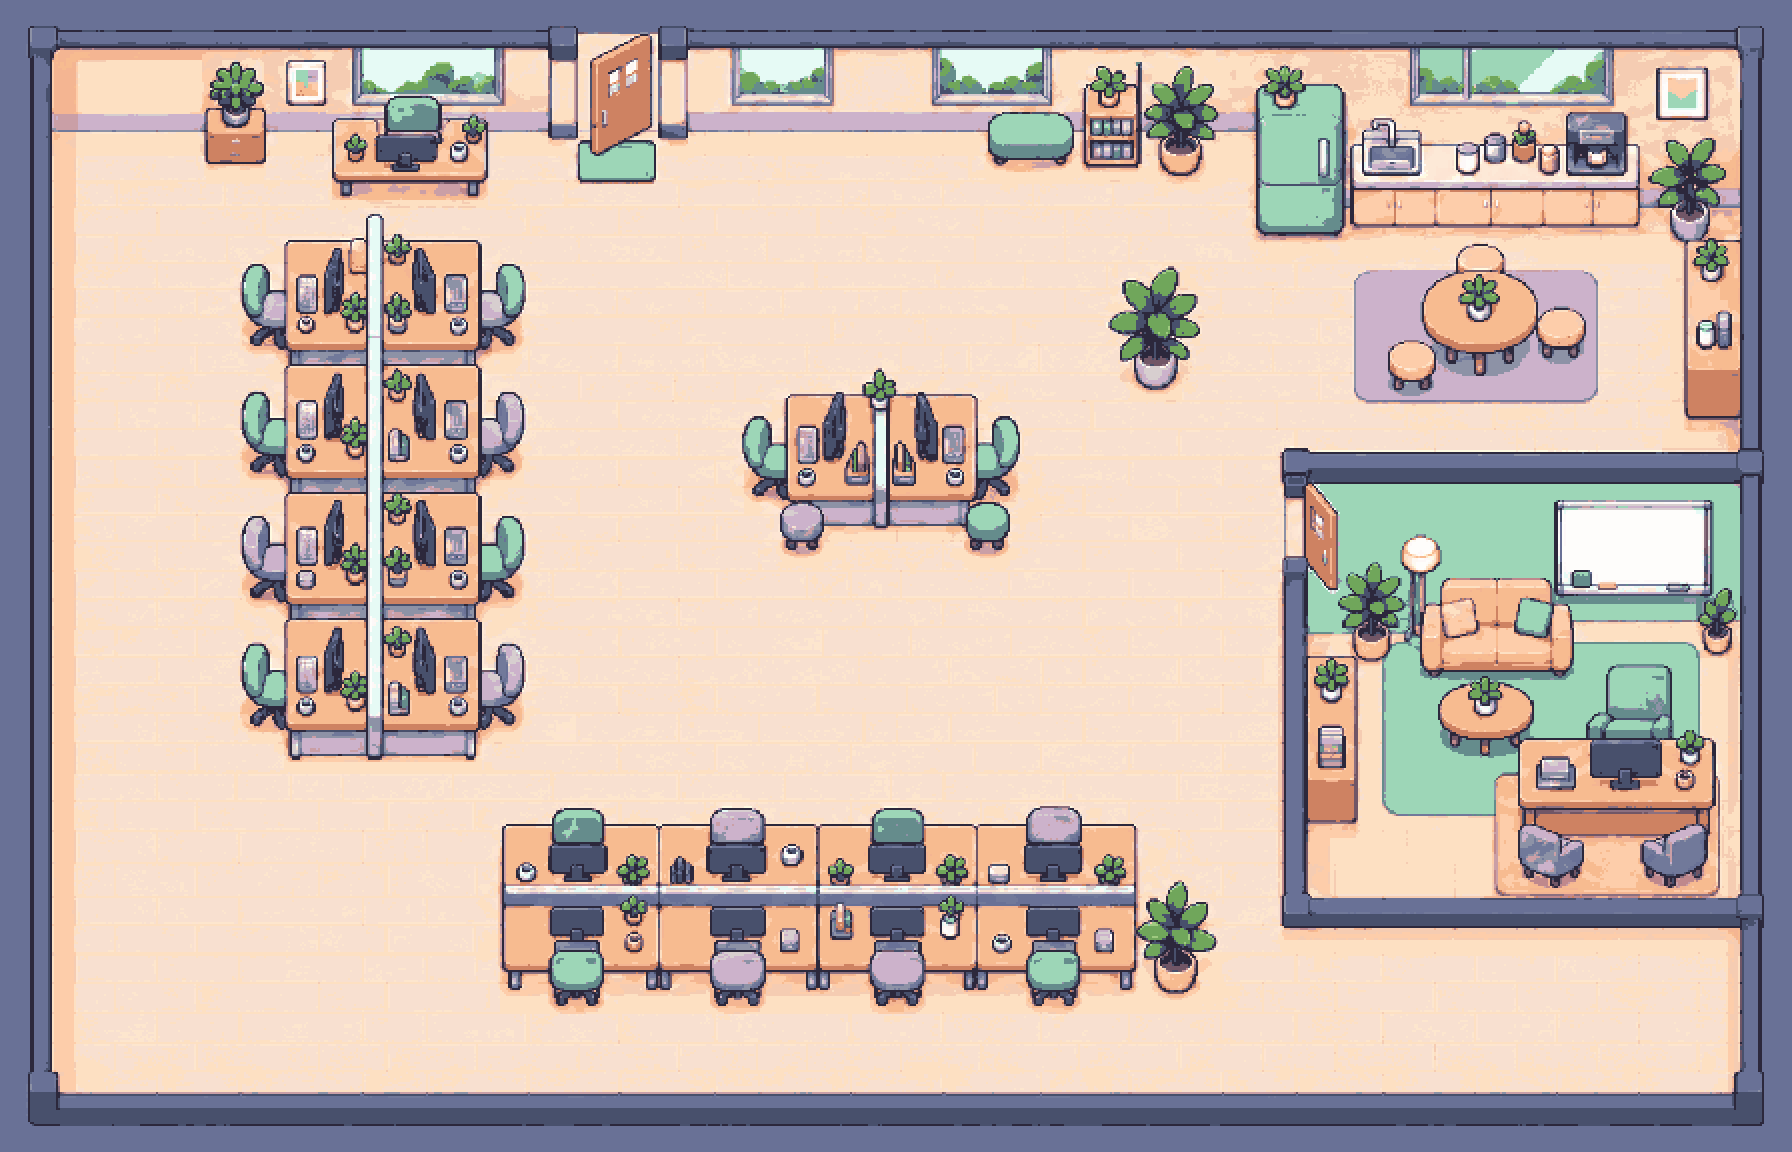
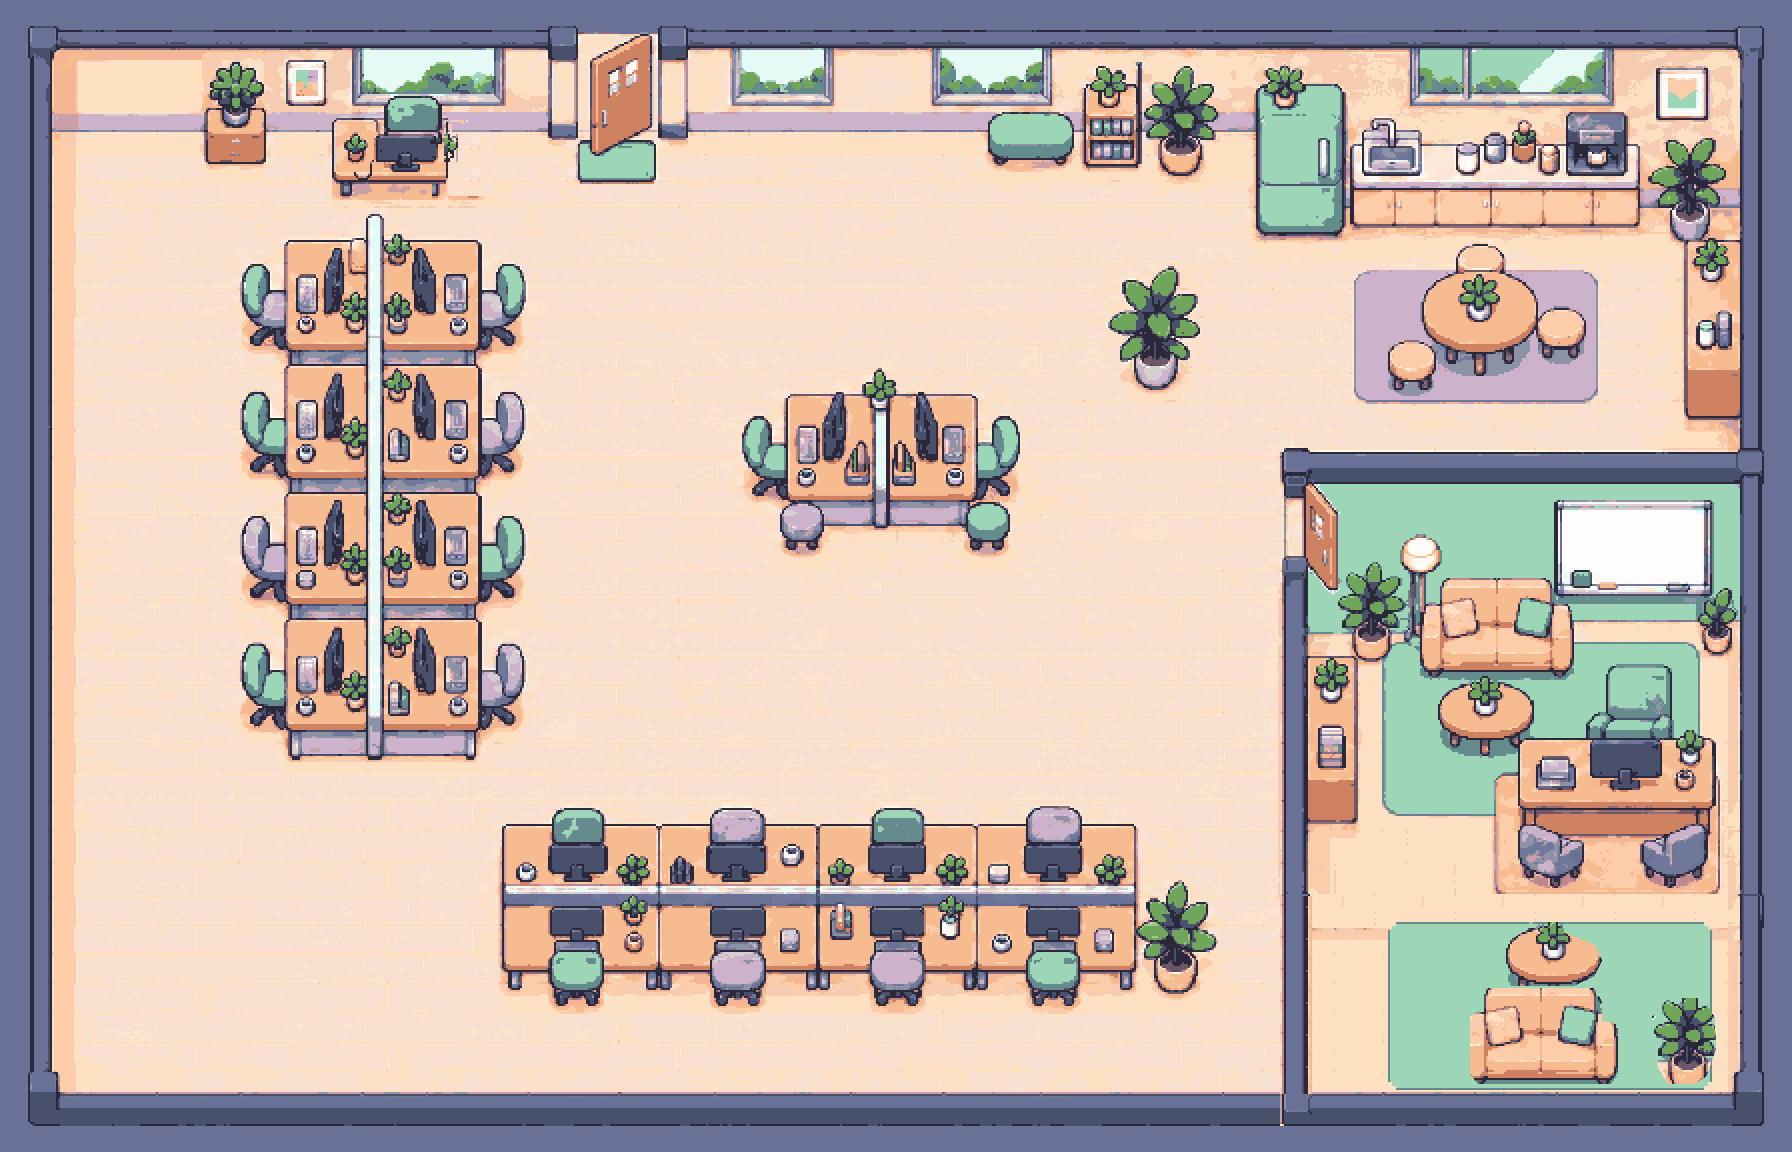
feat(office): Manager Room reaches the south wall; HR desk gets a seat
Shared map change (2D plate, collision grid and seats together, ADR 0004):
- The Manager Room extends from row 28 down to the south wall: the old bottom
  partition (row 28, x 41-53) opens, the west partition continues down x=40,
  and a lounge (sofa, table, palm) fills the new part.
- The HR desk keeps its look; its right end opens (14,4)/(14,5) so the chair
  at (13,4) becomes seat HR, facing down.
34 collision tiles change; export-map.py reproduces every file byte for byte.
Everyone needs this release at the same time so paths agree.

Changed region(s): [[0.6875, 0.75, 1.0, 0.9688], [0.2188, 0.0938, 0.2812, 0.1875]]

diff --git a/design/office-style/C/map/export-map.py b/design/office-style/C/map/export-map.py
@@ -2,6 +2,17 @@
 Only writes map assets, manifest entries and design QA artifacts. Requires Pillow.
 """
 from pathlib import Path
+import subprocess
+
+# Owner-authorized Part D map corrections. The scoped exporter preserves every
+# unrelated pixel and never writes the shared manifest. Legacy export is retained
+# below for historical reference / repositories without the Part D source.
+_part_d_root = Path(__file__).resolve().parents[4]
+_part_d_package = _part_d_root / 'design/office-style/3d'
+if (_part_d_package / 'src/map-export.ts').exists():
+    subprocess.run(['bun', 'src/map-export.ts'], cwd=_part_d_package, check=True)
+    raise SystemExit(0)
+
 from collections import deque
 import json
 from PIL import Image, ImageDraw

diff --git a/design/office-style/REQUESTS.md b/design/office-style/REQUESTS.md
@@ -51,3 +51,24 @@ Owner request (2026-10-28): staff can pick the Manager Room as their desk. No ne
 behind the large desk is the seat. `seats.json` has a 19th entry `MGR` (seat (51, 21), facing down, extras (50, 21),
 (52, 21), (51, 20)); `collision.png` marks (51, 21) red. `export-map.py` reproduces both. Code: `MGR` in world.py
 `DESKS`. Desk count is now 19.
+
+## Part D shared-map correction: manager-room extension and HR seat
+
+Owner-authorized for `feat/office-3d`, in this worktree only. The manager room now reaches the south exterior wall at row 34. Its west partition remains x=40, with the original doorway at rows 15–16; it continues through rows 29–33. The old south partition at row 28, x=41..53, is walkable floor. MGR and all previous seat records are unchanged.
+
+Collision changes (34 tiles total):
+
+- Make `(41..53,28)` walkable (13 tiles).
+- Block `(40,29..33)` for the continuing partition (5 tiles).
+- Block `(48..50,29..30)` for the lounge table, `(48..50,31..32)` for the second sofa, and `(52,32)` for its plant (13 furniture tiles).
+- Make `(14,4)` and `(14,5)` walkable for the HR entry gap, and mark `(13,4)` red as seat HR (3 tiles).
+
+`office/map/seats.json` now has **20** entries. The new record is:
+
+```json
+{"id":"HR","seat":{"x":13,"y":4},"face":"down","extras":[{"x":14,"y":4},{"x":14,"y":5},{"x":15,"y":4}]}
+```
+
+App-owner integration: recognize HR in the server/default desk lists and seat picker if not already handled. HR sits behind the shortened reception desk, facing south. The 3D desk and monitor fronts face north; the chair is the standard nonblocking seat-chair exception. The 2D chair, monitor, left plant and window frame are pixel-identical; the right desk end was shortened and its plant/mug relocated.
+
+The scoped, reproducible export remains `python3 design/office-style/C/map/export-map.py`; it dispatches to `design/office-style/3d/src/map-export.ts` and does not edit manifest.json. It preserves unrelated 2D pixels, the existing 32-color palette, binary foreground alpha, and uses the original nearest-neighbour / 50% recipe for collision@16x.png. Before/after/diff reviews are in `design/office-style/3d/previews/map-before-after-diff.png` and `hr-before-after-diff.png`. Exact changes and validation evidence are in that package's reports.

diff --git a/docs/office/CODEX-PROMPTS.md b/docs/office/CODEX-PROMPTS.md
@@ -321,3 +321,15 @@ Verify and report: image sizes unchanged; only the pixels of the chair area chan
 collision.png differs from the old one only at the new seat tile; the MGR seat is reachable by a path from the
 entrance (blue tile) through the Manager Room doorway; seats.json is valid JSON with 19 entries.
 ```
+
+---
+
+## Part D owner correction: extended manager room + HR seat (2026-10-28)
+
+This supersedes the earlier manager-room lower boundary and 19-seat count. Asset work and the shared map change ship together, in the `feat/office-3d` worktree; application code remains separate.
+
+- Manager room: x=40 partition continues to the south exterior wall at row 34. Keep the doorway at x=40, rows 15–16 and keep MGR where it is. Row 28, x=41..53 is now walkable; x=40, rows 29..33 is blocked. The new lower lounge blocks exactly x=48..50 / rows 29..30 (table), x=48..50 / rows 31..32 (sofa), and tile (52,32) (plant).
+- HR: keep the corner, chair, monitor, left plant and wall/window-frame pixels. Shorten only the desk's right end; move that end's plant and mug onto the remaining desk. Tiles (14,4) and (14,5) become walkable; (13,4) is the new red seat tile. Append `HR`, face `down`, with extras `(14,4)`, `(14,5)`, `(15,4)` to seats.json. There are 20 seats; the previous 19 records are unchanged.
+- Preserve all unrelated collision cells and every unrelated pixel in background.png and foreground.png. Reuse the plate's pixel style and 32-color palette; no smoothing or partial alpha. Foreground pixels must remain copied from the final background so the two layers stack identically.
+- Reproduce with `python3 design/office-style/C/map/export-map.py`. The Part D adapter uses immutable pre-change sources under `design/office-style/3d/src/map-before/`; collision@16x.png remains a nearest-neighbour 16x grid blended 50% over the nearest-neighbour half-size background. Do not rerun the legacy full export over the corrected map.
+- Verify exact changed tiles, protected HR pixels, 20/20 reachable seats and extras, binary foreground alpha, unchanged unrelated pixels, and a before/after diff. See `design/office-style/3d/REPORT.md`, `REQUESTS-3D.md` and `reports/map-d12.json` for the delivered 2D + 3D contract. No shared manifest edit is part of this batch.
